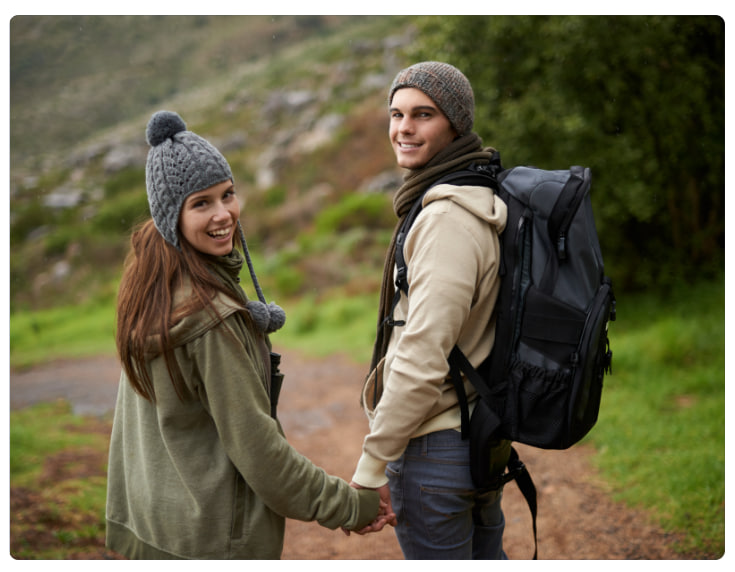
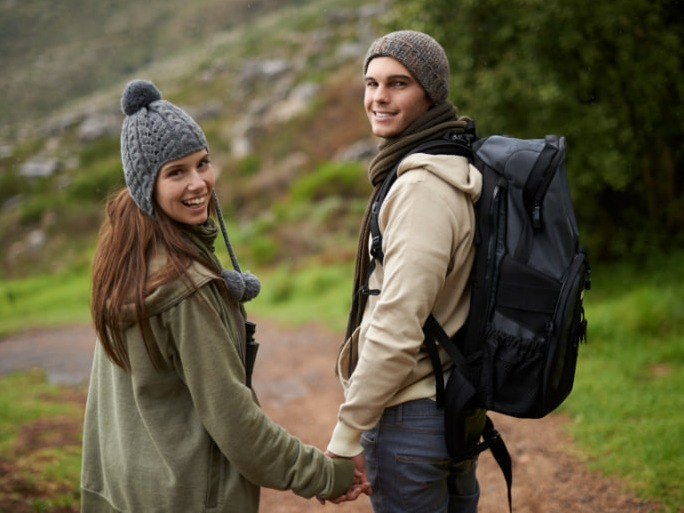
Карусель: обрезаны белые рамки фото 05/06, правки фона и градиента
- 05.jpg, 06.jpg — убраны впечатанные белые рамки и тень (нет полей по краям)
- Фон слайда подтянут на 4px вверх (скрыта тёмная линия по верхнему краю)
- Нижнее затемнение на 20% прозрачнее

diff --git a/styles.css b/styles.css
@@ -892,9 +892,11 @@ img {
 /* фоновое изображение слайда (можно заменить файл на реальное фото) */
 .journey__bg {
     position: absolute;
-    inset: 0;
+    top: -4px; /* подтянуто на 4px вверх — скрывает тёмную линию по верхнему краю фото */
+    left: 0;
+    right: 0;
     width: 100%;
-    height: 100%;
+    height: calc(100% + 4px);
     object-fit: cover;
     z-index: 0;
 }
@@ -904,7 +906,7 @@ img {
     position: absolute;
     inset: 0;
     z-index: 1;
-    background: linear-gradient(to top, rgba(8, 20, 35, 0.88) 0%, rgba(8, 20, 35, 0.55) 42%, rgba(8, 20, 35, 0.10) 100%);
+    background: linear-gradient(to top, rgba(8, 20, 35, 0.70) 0%, rgba(8, 20, 35, 0.44) 42%, rgba(8, 20, 35, 0.08) 100%); /* затемнение на 20% прозрачнее */
 }
 .journey__day {
     position: absolute;
